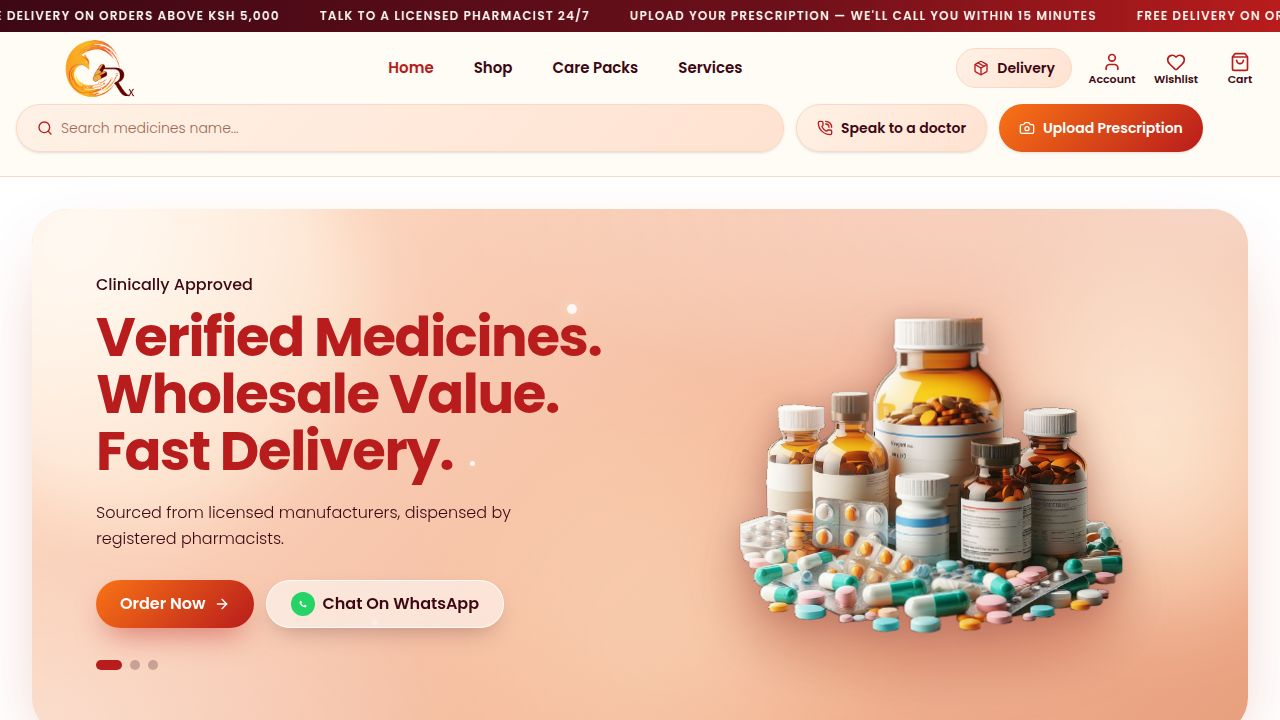
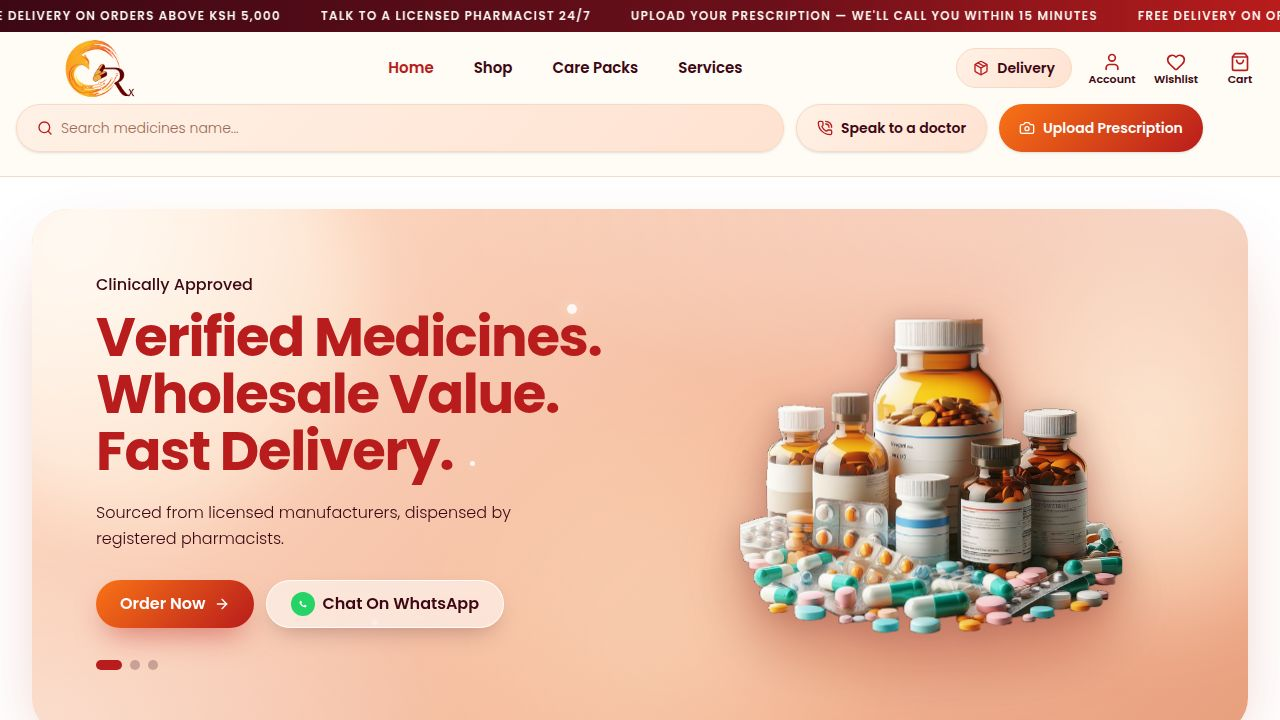
Task #9: Doctor panel modernization & consultation notes
What & why:
Modernize the doctor surfaces, verify the clinical-notes → pharmacist flow, and
complete the per-patient sticky-notes feature (the missing EDIT capability).

Changes:
- patient-detail.tsx: rewrote the notes list into a NoteCard component with inline
  EDIT (body + colour), keeping create/pin/delete. Added a header stat row
  (notes / pinned), an "edited" marker, and a shared ColorSwatches helper.
  Pin/unpin no longer bumps updatedAt so the "edited" marker only reflects real
  content/colour edits (fix for architect review caveat).
- doctors.tsx: added a scannable summary StatCard bar (total / active /
  specialties / avg rate). Data model unchanged.
- panel.tsx: added a live consultation StatTile row (in queue / live now /
  done today) read from cmsStore "consultations" so the panel ties to real state.
- consultations.tsx: clarified the doctor's-note placeholder (symptoms /
  diagnosis / recommendation), added an "auto-saved · visible to the care team"
  caption, and disabled the note textarea for view-only (non-consult.handle)
  users. Chat transport left untouched (constraint: shared with the downstream
  chat-rework task).

Persistence: all doctor/sticky-note/consultation data persists via cmsStore as
before. No persisted-shape change → no Drizzle schema change required.

Verification: full workspace typecheck passes; storefront typecheck passes;
doctor panel screenshot confirms the new live stats render. Admin doctors page
[…]

diff --git a/artifacts/her-kingdom/src/components/admin/patient-detail.tsx b/artifacts/her-kingdom/src/components/admin/patient-detail.tsx
@@ -5,11 +5,13 @@ import { Link, useRoute } from "wouter"
 import { AdminShell } from "./admin-shell"
 import { useStickyNotes, makeStickyNote, type StickyNote } from "@/lib/doctors-store"
 import { useEffectivePermissions } from "@/lib/permissions"
-import { ArrowLeft, NotebookPen, Pin, Trash2, Save } from "lucide-react"
+import { ArrowLeft, NotebookPen, Pin, Trash2, Save, Pencil, X, StickyNote as StickyIcon } from "lucide-react"
 
 const WINE = "#3D0814"
 const ACCENT = "#F97316"
 const ACCENT_RED = "#B91C1C"
+
+const COLORS: StickyNote["color"][] = ["yellow", "wine", "orange", "blue"]
 
 const COLOR_BG: Record<StickyNote["color"], string> = {
   yellow: "#FEF3C7",
@@ -48,6 +50,7 @@ function PatientDetailInner({ patientId }: { patientId: string }) {
     () => items.slice().sort((a, b) => Number(b.pinned) - Number(a.pinned) || b.createdAt.localeCompare(a.createdAt)),
     [items],
   )
+  const pinnedCount = useMemo(() => items.filter((n) => n.pinned).length, [items])
 
   function addNote() {
     if (!draft.trim()) return
@@ -63,7 +66,13 @@ function PatientDetailInner({ patientId }: { patientId: string }) {
   }
 
   function togglePin(n: StickyNote) {
-    upsert({ ...n, pinned: !n.pinned, updatedAt: new Date().toISOString() })
+    // Pin is a transient flag, not a content edit — leave updatedAt untouched so
+    // the "edited" marker stays meaningful (only body/color edits flip it).
+    upsert({ ...n, pinned: !n.pinned })
+  }
+
+  function saveEdit(n: StickyNote, body: string, c: StickyNote["color"]) {
+    upsert({ ...n, body: body.trim(), color: c, updatedAt: new Date().toISOString() })
   }
 
   return (
@@ -79,11 +88,15 @@ function PatientDetailInner({ patientId }: { patientId: string }) {
           Shared clinical memory for this patient. Sticky notes are visible to every doctor and pharmacist on the
           care team — keep them factual and concise.
         </p>
+        <div className="mt-4 flex items-center gap-3 flex-wrap">
+          <Stat icon={StickyIcon} label="Notes" value={items.length} />
+          <Stat icon={Pin} label="Pinned" value={pinnedCount} accent />
+        </div>
       </div>
 
       <div className="grid gap-6 lg:grid-cols-[2fr_3fr]">
         {/* Composer */}
-        <section className="rounded-xl border border-border bg-white p-5 shadow-sm">
+        <section className="rounded-xl border border-border bg-white p-5 shadow-sm self-start">
           <h2 className="text-sm font-bold mb-3" style={{ color: WINE }}>Add a sticky note</h2>
           <textarea
             value={draft}
@@ -93,17 +106,7 @@ function PatientDetailInner({ patientId }: { patientId: string }) {
             className="w-full px-3 py-2 text-sm border border-border rounded-md bg-white focus:outline-none focus:border-foreground resize-none"
           />
           <div className="mt-3 flex items-center gap-2">
-            <span className="text-[10px] font-semibold uppercase tracking-wider text-muted-foreground">Colour</span>
-            {(["yellow", "wine", "orange", "blue"] as StickyNote["color"][]).map((c) => (
-              <button
-                key={c}
-                type="button"
-                onClick={() => setColor(c)}
-                aria-label={`Colour ${c}`}
-                className={`h-6 w-6 rounded-full border-2 transition-all ${color === c ? "scale-110" : ""}`}
-                style={{ background: COLOR_BG[c], borderColor: color === c ? WINE : "transparent" }}
-              />
-            ))}
+            <ColorSwatches value={color} onChange={setColor} />
             <button
               type="button"
               onClick={addNote}
@@ -129,40 +132,141 @@ function PatientDetailInner({ patientId }: { patientId: string }) {
           ) : (
             <div className="grid gap-3 sm:grid-cols-2">
               {sorted.map((n) => (
-                <article
+                <NoteCard
                   key={n.id}
-                  className="rounded-xl p-4 shadow-sm border border-border/40 relative"
-                  style={{ background: COLOR_BG[n.color], color: COLOR_TEXT[n.color] }}
-                >
-                  <div className="flex items-start justify-between gap-2 mb-2">
-                    <p className="text-[10px] uppercase tracking-wider font-bold">
-                      {n.authorName} · {n.authorRole}
-                    </p>
-                    <div className="flex items-center gap-1">
-                      <button
-                        onClick={() => togglePin(n)}
-                        aria-label={n.pinned ? "Unpin" : "Pin"}
-                        className={`p-1 rounded-md hover:bg-black/5 ${n.pinned ? "" : "opacity-50"}`}
-                      >
-                        <Pin className="h-3.5 w-3.5" />
-                      </button>
-                      <button
-                        onClick={() => { if (confirm("Delete this note?")) remove(n.id) }}
-                        aria-label="Delete note"
-                        className="p-1 rounded-md hover:bg-black/5"
-                      >
-                        <Trash2 className="h-3.5 w-3.5" />
-                      </button>
-                    </div>
-                  </div>
-                  <p className="text-sm whitespace-pre-wrap leading-relaxed">{n.body}</p>
-                  <p className="mt-3 text-[10px] opacity-75">{new Date(n.createdAt).toLocaleString()}</p>
-                </article>
+                  note={n}
+                  onTogglePin={() => togglePin(n)}
+                  onSave={(body, c) => saveEdit(n, body, c)}
+                  onDelete={() => { if (confirm("Delete this note?")) remove(n.id) }}
+                />
               ))}
             </div>
           )}
         </section>
       </div>
     </AdminShell>
+  )
+}
+
+function NoteCard({ note, onTogglePin, onSave, onDelete }: {
+  note: StickyNote
+  onTogglePin: () => void
+  onSave: (body: string, color: StickyNote["color"]) => void
+  onDelete: () => void
+}) {
+  const [editing, setEditing] = useState(false)
+  const [body, setBody] = useState(note.body)
+  const [color, setColor] = useState<StickyNote["color"]>(note.color)
+  const edited = note.updatedAt && note.createdAt && note.updatedAt !== note.createdAt
+
+  function begin() {
+    setBody(note.body)
+    setColor(note.color)
+    setEditing(true)
+  }
+
+  function commit() {
+    if (!body.trim()) return
+    onSave(body, color)
+    setEditing(false)
+  }
+
+  return (
+    <article
+      className="rounded-xl p-4 shadow-sm border border-border/40 relative"
+      style={{ background: COLOR_BG[editing ? color : note.color], color: COLOR_TEXT[editing ? color : note.color] }}
+    >
+      <div className="flex items-start justify-between gap-2 mb-2">
+        <p className="text-[10px] uppercase tracking-wider font-bold">
+          {note.authorName} · {note.authorRole}
+        </p>
+        <div className="flex items-center gap-1">
+          {editing ? (
+            <>
+              <button onClick={commit} aria-label="Save note" className="p-1 rounded-md hover:bg-black/5" disabled={!body.trim()}>
+                <Save className="h-3.5 w-3.5" />
+              </button>
+              <button onClick={() => setEditing(false)} aria-label="Cancel edit" className="p-1 rounded-md hover:bg-black/5">
+                <X className="h-3.5 w-3.5" />
+              </button>
+            </>
+          ) : (
+            <>
+              <button
+                onClick={onTogglePin}
+                aria-label={note.pinned ? "Unpin" : "Pin"}
+                className={`p-1 rounded-md hover:bg-black/5 ${note.pinned ? "" : "opacity-50"}`}
+              >
+                <Pin className="h-3.5 w-3.5" />
+              </button>
+              <button onClick={begin} aria-label="Edit note" className="p-1 rounded-md hover:bg-black/5">
+                <Pencil className="h-3.5 w-3.5" />
+              </button>
+              <button onClick={onDelete} aria-label="Delete note" className="p-1 rounded-md hover:bg-black/5">
+                <Trash2 className="h-3.5 w-3.5" />
+              </button>
+            </>
+          )}
+        </div>
+      </div>
+
+      {editing ? (
+        <div className="space-y-2">
+          <textarea
+            value={body}
+            onChange={(e) => setBody(e.target.value)}
+            rows={4}
+            autoFocus
+            className="w-full px-2.5 py-2 text-sm rounded-md bg-white/70 border border-black/10 focus:outline-none focus:border-black/30 resize-none"
+            style={{ color: COLOR_TEXT[color] }}
+          />
+          <ColorSwatches value={color} onChange={setColor} small />
+        </div>
+      ) : (
+        <p className="text-sm whitespace-pre-wrap leading-relaxed">{note.body}</p>
+      )}
+
+      <p className="mt-3 text-[10px] opacity-75">
+        {new Date(note.createdAt).toLocaleString()}
+        {edited && !editing && <span> · edited</span>}
+      </p>
+    </article>
+  )
+}
+
+function ColorSwatches({ value, onChange, small }: {
+  value: StickyNote["color"]
+  onChange: (c: StickyNote["color"]) => void
+  small?: boolean
+}) {
+  return (
+    <div className="flex items-center gap-2">
+      {!small && <span className="text-[10px] font-semibold uppercase tracking-wider text-muted-foreground">Colour</span>}
+      {COLORS.map((c) => (
+        <button
+          key={c}
+          type="button"
+          onClick={() => onChange(c)}
+          aria-label={`Colour ${c}`}
+          className={`${small ? "h-5 w-5" : "h-6 w-6"} rounded-full border-2 transition-all ${value === c ? "scale-110" : ""}`}
+          style={{ background: COLOR_BG[c], borderColor: value === c ? WINE : "transparent" }}
+        />
+      ))}
+    </div>
+  )
+}
+
+function Stat({ icon: Icon, label, value, accent }: {
+  icon: typeof Pin
+  label: string
+  value: number
+  accent?: boolean
+}) {
+  return (
+    <div className="inline-flex items-center gap-2 rounded-full border border-border bg-white px-3 py-1.5 shadow-sm">
+      <Icon className="h-3.5 w-3.5" style={{ color: accent ? ACCENT_RED : WINE }} />
+      <span className="text-sm font-bold" style={{ color: WINE }}>{value}</span>
+      <span className="text-[11px] text-muted-foreground">{label}</span>
+    </div>
   )
 }

diff --git a/artifacts/her-kingdom/src/pages/doctor/panel.tsx b/artifacts/her-kingdom/src/pages/doctor/panel.tsx
@@ -9,9 +9,11 @@ import { Seo } from "@/components/seo"
 import { useEffectivePermissions } from "@/lib/permissions"
 import { useDoctors } from "@/lib/doctors-store"
 import { useAdminNotifications } from "@/lib/notifications-client"
+import { useCmsDoc } from "@/lib/cms-store"
+import type { Consultation } from "@/components/admin/consultations"
 import {
   Stethoscope, ClipboardList, Users, CalendarClock, NotebookPen, ShieldCheck,
-  ArrowRight, Bell,
+  ArrowRight, Bell, Activity, CheckCircle2, Hourglass,
 } from "lucide-react"
 
 const WINE = "#3D0814"
@@ -42,6 +44,18 @@ export default function DoctorPanelPage() {
   )
 
   const { items: notifs, unread, markAllRead } = useAdminNotifications("doctor")
+
+  const [consults] = useCmsDoc<Consultation[]>("consultations", [])
+  const consultStats = useMemo(() => {
+    const startOfDay = new Date(); startOfDay.setHours(0, 0, 0, 0)
+    let queued = 0, live = 0, completedToday = 0
+    for (const c of consults) {
+      if (c.status === "queued") queued++
+      else if (c.status === "live") live++
+      else if (c.status === "completed" && new Date(c.endedAt || c.startedAt) >= startOfDay) completedToday++
+    }
+    return { queued, live, completedToday }
+  }, [consults])
 
   if (!allowed) {
     return (
@@ -94,6 +108,13 @@ export default function DoctorPanelPage() {
             )}
           </div>
 
+          {/* Live stats */}
+          <div className="grid grid-cols-3 gap-3">
+            <StatTile icon={Hourglass} label="In queue" value={consultStats.queued} />
+            <StatTile icon={Activity} label="Live now" value={consultStats.live} live={consultStats.live > 0} />
+            <StatTile icon={CheckCircle2} label="Done today" value={consultStats.completedToday} />
+          </div>
+
           {/* Cards */}
           <div className="grid gap-4 md:grid-cols-2 lg:grid-cols-3">
             <PanelCard icon={ClipboardList} title="Prescriptions inbox" desc="Verify uploaded prescriptions and write dosing notes." href="/admin/prescriptions" />
@@ -131,6 +152,31 @@ export default function DoctorPanelPage() {
       </div>
       <Footer />
     </>
+  )
+}
+
+function StatTile({ icon: Icon, label, value, live }: {
+  icon: typeof Stethoscope; label: string; value: number; live?: boolean
+}) {
+  return (
+    <div className="rounded-xl border border-border bg-white p-4 shadow-sm flex items-center gap-3">
+      <div
+        className="h-10 w-10 rounded-lg flex items-center justify-center text-white flex-shrink-0 relative"
+        style={{ background: live ? `linear-gradient(135deg, ${ACCENT}, ${ACCENT_RED})` : WINE }}
+      >
+        <Icon className="h-5 w-5" />
+        {live && (
+          <span className="absolute -top-1 -right-1 flex h-2.5 w-2.5">
+            <span className="absolute inline-flex h-full w-full rounded-full bg-red-400 opacity-75 animate-ping" />
+            <span className="relative inline-flex h-2.5 w-2.5 rounded-full bg-red-500" />
+          </span>
+        )}
+      </div>
+      <div className="min-w-0">
+        <p className="text-2xl font-bold leading-none" style={{ color: WINE }}>{value}</p>
+        <p className="text-[11px] text-muted-foreground mt-1">{label}</p>
+      </div>
+    </div>
   )
 }
 

diff --git a/artifacts/her-kingdom/src/components/admin/doctors.tsx b/artifacts/her-kingdom/src/components/admin/doctors.tsx
@@ -29,6 +29,14 @@ export function AdminDoctors() {
     )
   }, [items, q])
 
+  const stats = useMemo(() => {
+    const active = items.filter((d) => d.active).length
+    const specialties = new Set(items.map((d) => d.specialization.trim()).filter(Boolean)).size
+    const rates = items.map((d) => d.consultationRateKES).filter((n) => n > 0)
+    const avgRate = rates.length ? Math.round(rates.reduce((a, b) => a + b, 0) / rates.length) : 0
+    return { total: items.length, active, specialties, avgRate }
+  }, [items])
+
   return (
     <AdminShell title="Doctors">
       <div className="flex items-start justify-between mb-6 gap-3 flex-wrap">
@@ -51,6 +59,15 @@ export function AdminDoctors() {
           </button>
         </RequirePerm>
       </div>
+
+      {items.length > 0 && (
+        <div className="grid grid-cols-2 sm:grid-cols-4 gap-3 mb-5">
+          <StatCard label="Doctors" value={String(stats.total)} icon={Stethoscope} />
+          <StatCard label="Active" value={String(stats.active)} icon={Check} accent />
+          <StatCard label="Specialties" value={String(stats.specialties)} icon={BadgeCheck} />
+          <StatCard label="Avg rate" value={`KSh ${stats.avgRate.toLocaleString()}`} icon={Clock} />
+        </div>
+      )}
 
       <div className="relative max-w-sm mb-4">
         <Search className="absolute left-3 top-1/2 -translate-y-1/2 h-3.5 w-3.5 text-muted-foreground" />
@@ -292,6 +309,25 @@ function DoctorEditor({ initial, onClose, onSave }: { initial: Doctor; onClose: 
           </button>
         </div>
       </aside>
+    </div>
+  )
+}
+
+function StatCard({ label, value, icon: Icon, accent }: {
+  label: string; value: string; icon: typeof Stethoscope; accent?: boolean
+}) {
+  return (
+    <div className="rounded-xl border border-border bg-white p-4 shadow-sm flex items-center gap-3">
+      <div
+        className="h-9 w-9 rounded-lg flex items-center justify-center text-white flex-shrink-0"
+        style={{ background: accent ? `linear-gradient(135deg, ${ACCENT}, ${ACCENT_RED})` : WINE }}
+      >
+        <Icon className="h-4 w-4" />
+      </div>
+      <div className="min-w-0">
+        <p className="text-lg font-bold leading-tight truncate" style={{ color: WINE }}>{value}</p>
+        <p className="text-[11px] text-muted-foreground">{label}</p>
+      </div>
     </div>
   )
 }

diff --git a/artifacts/her-kingdom/src/components/admin/consultations.tsx b/artifacts/her-kingdom/src/components/admin/consultations.tsx
@@ -569,10 +569,15 @@ export function AdminConsultations() {
                       <textarea
                         rows={5}
                         className="cinput"
-                        placeholder="Clinical impression, findings, follow-ups…"
+                        placeholder="Symptoms, clinical impression / diagnosis, recommendation, follow-ups…"
                         value={active.doctorNote}
                         onChange={(e) => update({ doctorNote: e.target.value })}
+                        disabled={!canHandle}
                       />
+                      <p className="text-[10px] text-muted-foreground inline-flex items-center gap-1 mt-1">
+                        <CheckCircle2 className="h-3 w-3 text-emerald-600" />
+                        Saved automatically · visible to the care team
+                      </p>
                     </Field>
                     <div>
                       <div className="flex items-center justify-between mb-2 gap-2 flex-wrap">